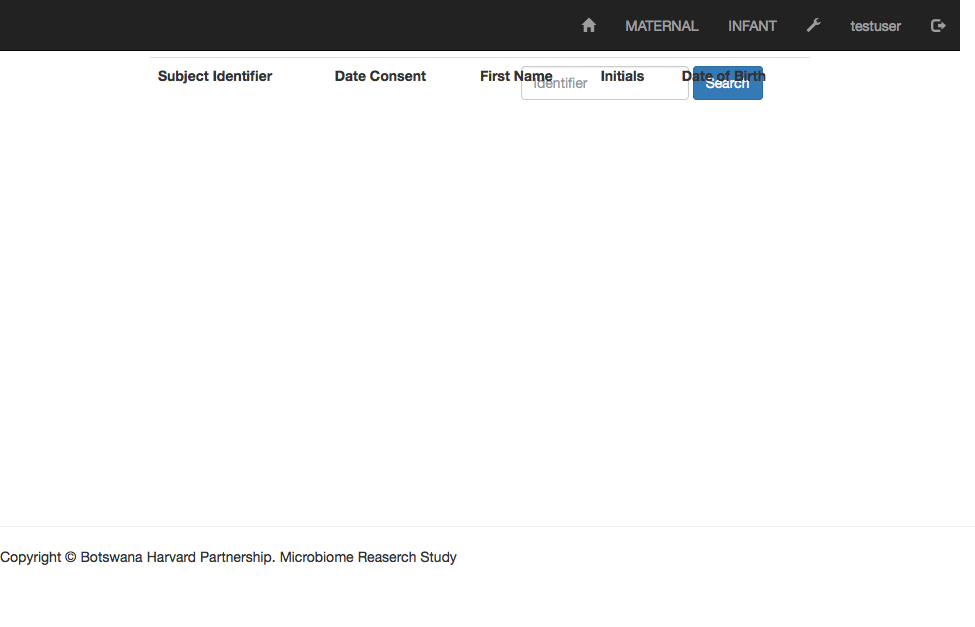
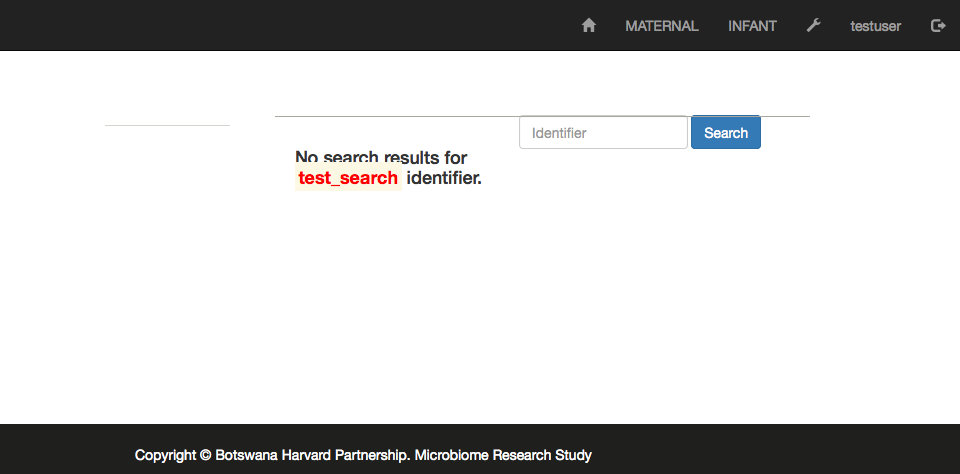
add test for search with no results

diff --git a/microbiome/tests/test_home_page_selenium.py b/microbiome/tests/test_home_page_selenium.py
@@ -1,5 +1,7 @@
 import time
 
+from selenium.webdriver.common.keys import Keys
+
 from microbiome.tests.base_selenium_test import BaseSeleniumTest
 
 
@@ -30,3 +32,16 @@ class TestMicrobiomeHomePageSelenium(BaseSeleniumTest):
         enrollment_link = self.browser.find_element_by_id('enrollment')
         enrollment_link.click()
         self.browser.save_screenshot('microbiome/screenshots/eligibility_pre.png')
+
+    def test_search_no_search_results(self):
+        self.login()
+        time.sleep(1)
+        self.browser.get(self.live_server_url + '/maternal_search')
+        time.sleep(1)
+        search_text = self.browser.find_element_by_id('identifier_search')
+        search_text.send_keys('test_search')
+        search_text.send_keys(Keys.RETURN)
+        search_result = self.browser.find_elements_by_id('no_search_results')
+        time.sleep(1)
+        self.assertTrue(any('No search results for' in item.text for item in search_result))
+        self.browser.save_screenshot('microbiome/screenshots/search_result.png')
